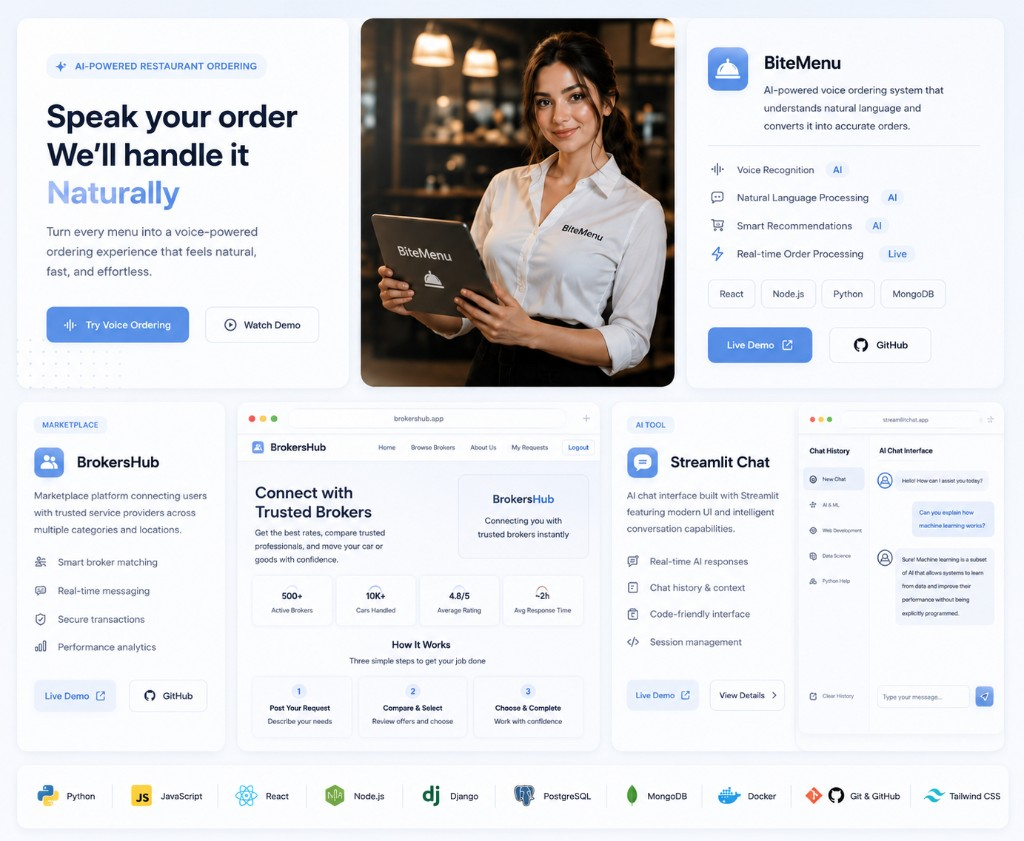
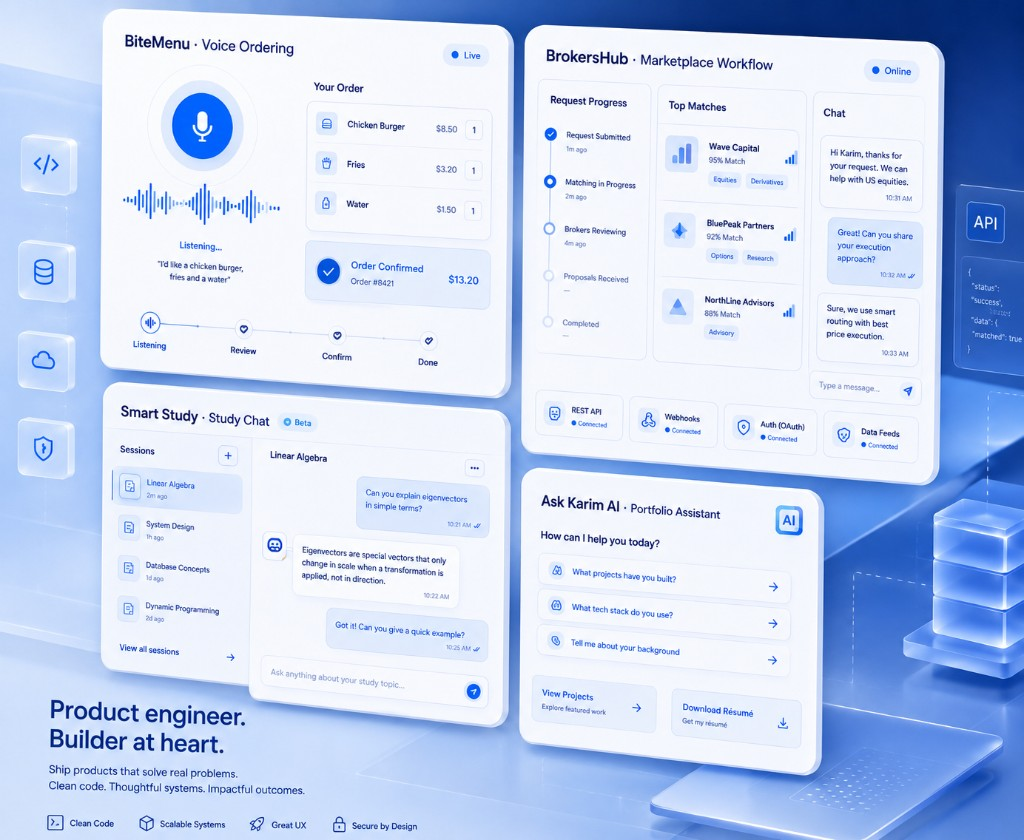
Final hero artwork and experience responsive polish

diff --git a/src/sections/ProfessionalExperience/ProfessionalExperience.module.css b/src/sections/ProfessionalExperience/ProfessionalExperience.module.css
@@ -8,7 +8,7 @@
 .shell {
   width: 100%;
   max-width: 1800px;
-  margin-left: 18px;
+  margin-left: 0;
   padding: 0 24px;
 }
 
@@ -128,7 +128,7 @@
   }
 
   .shell {
-    margin-left: 0;
+    margin:auto;
     padding: 0 var(--space-4);
   }
 }